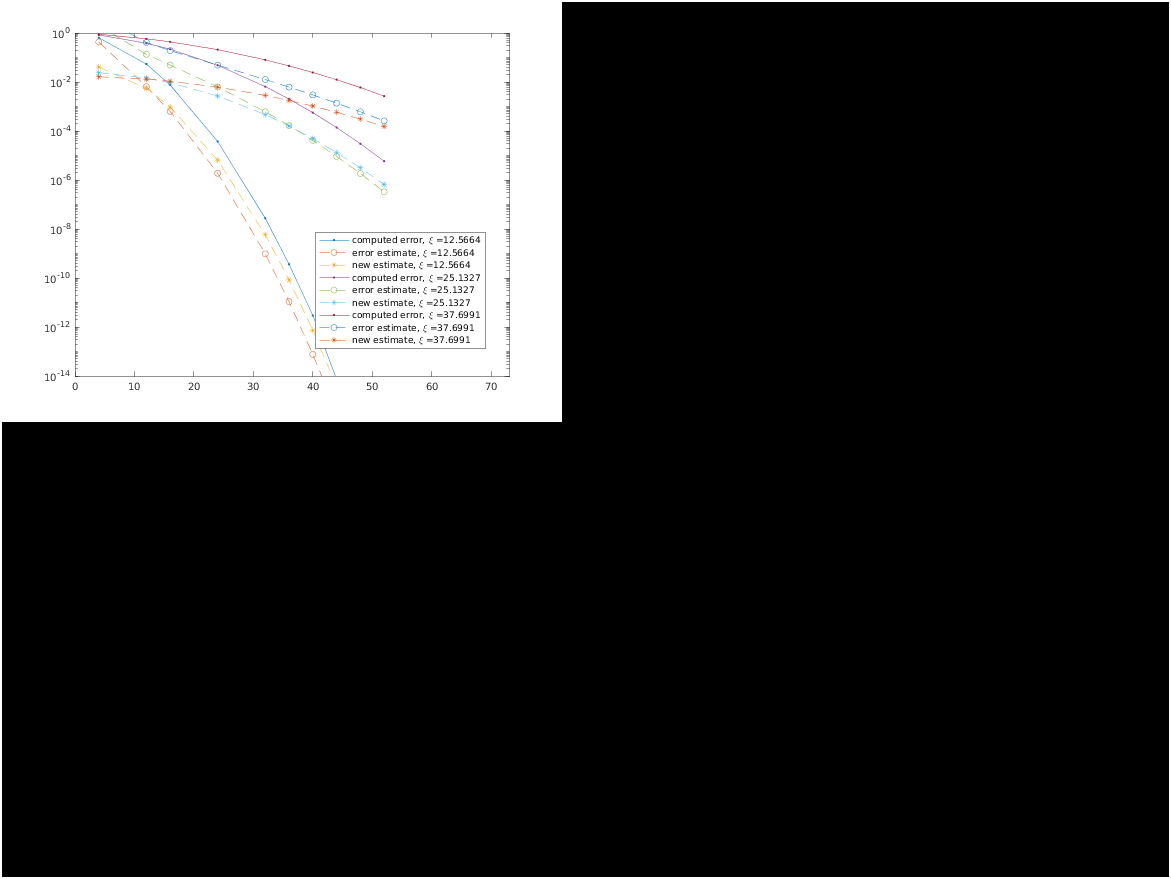
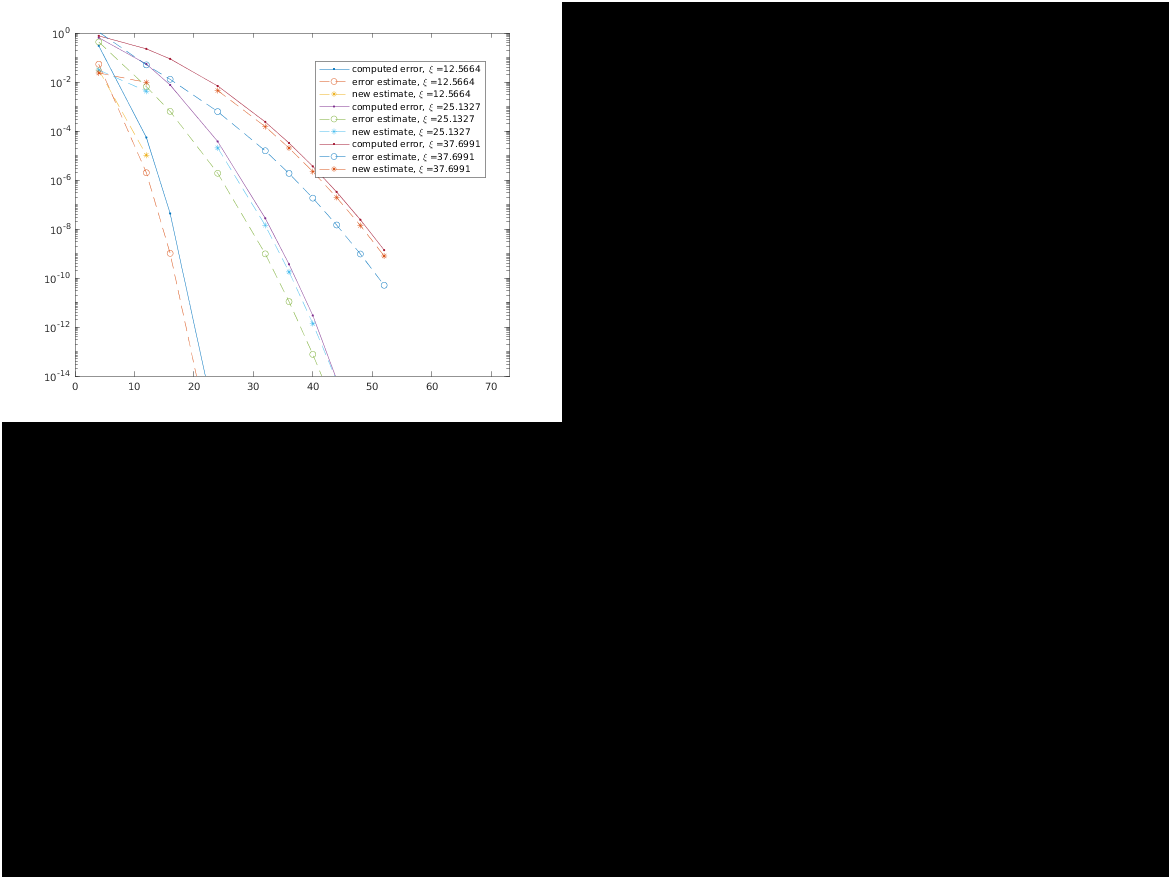
imgs

Changed region(s): [[0.0615, 0.0307, 0.3997, 0.3993], [0.2152, 0.2457, 0.2459, 0.3072], [0.1845, 0.1843, 0.2152, 0.215]]

diff --git a/SE_Stokes_run/SE3P_Stokes/param_select.m b/SE_Stokes_run/SE3P_Stokes/param_select.m
@@ -8,7 +8,7 @@ N = 20; % number of source particles
 
 
 %% Parameter selection
-L = 2; % box side length
+L = 1; % box side length
 box = [L L L]; % periodic box
 opt.box = box;
 
@@ -76,7 +76,7 @@ end
 F = sum(norm(f).^2);
 %est = @(M,xi,L,f) 2*L^2*sqrt(f)*(2*sqrt(pi)*M/2 + 3*xi*L)*exp(-((M/2)*pi/(xi*L))^2)/sqrt(pi);
 est = @(M,xi,L,f) sqrt(f)*(xi*(xi*L)^2)/(pi^4*(M/2)^(2))*exp(-(pi*(M/2)/(xi*L))^2);
-est2 = @(M,xi,L,f) sqrt(f)*(4*exp(-(pi*M/(2*xi*L))^2)/(L*pi*3^(1/4)));
+est2 = @(M,xi,L,f) sqrt(f)*(4*exp(-(pi*M/(2*xi*L))^2)/(L*pi*3^(1/2)))*((M<32)+(M>32)*(xi*L)^2/(2*pi*M/2));
 MM = [8,24,32,48,64,72,80,88,96,104];
 str = {};
 opt.window = 'kaiser_exact';
